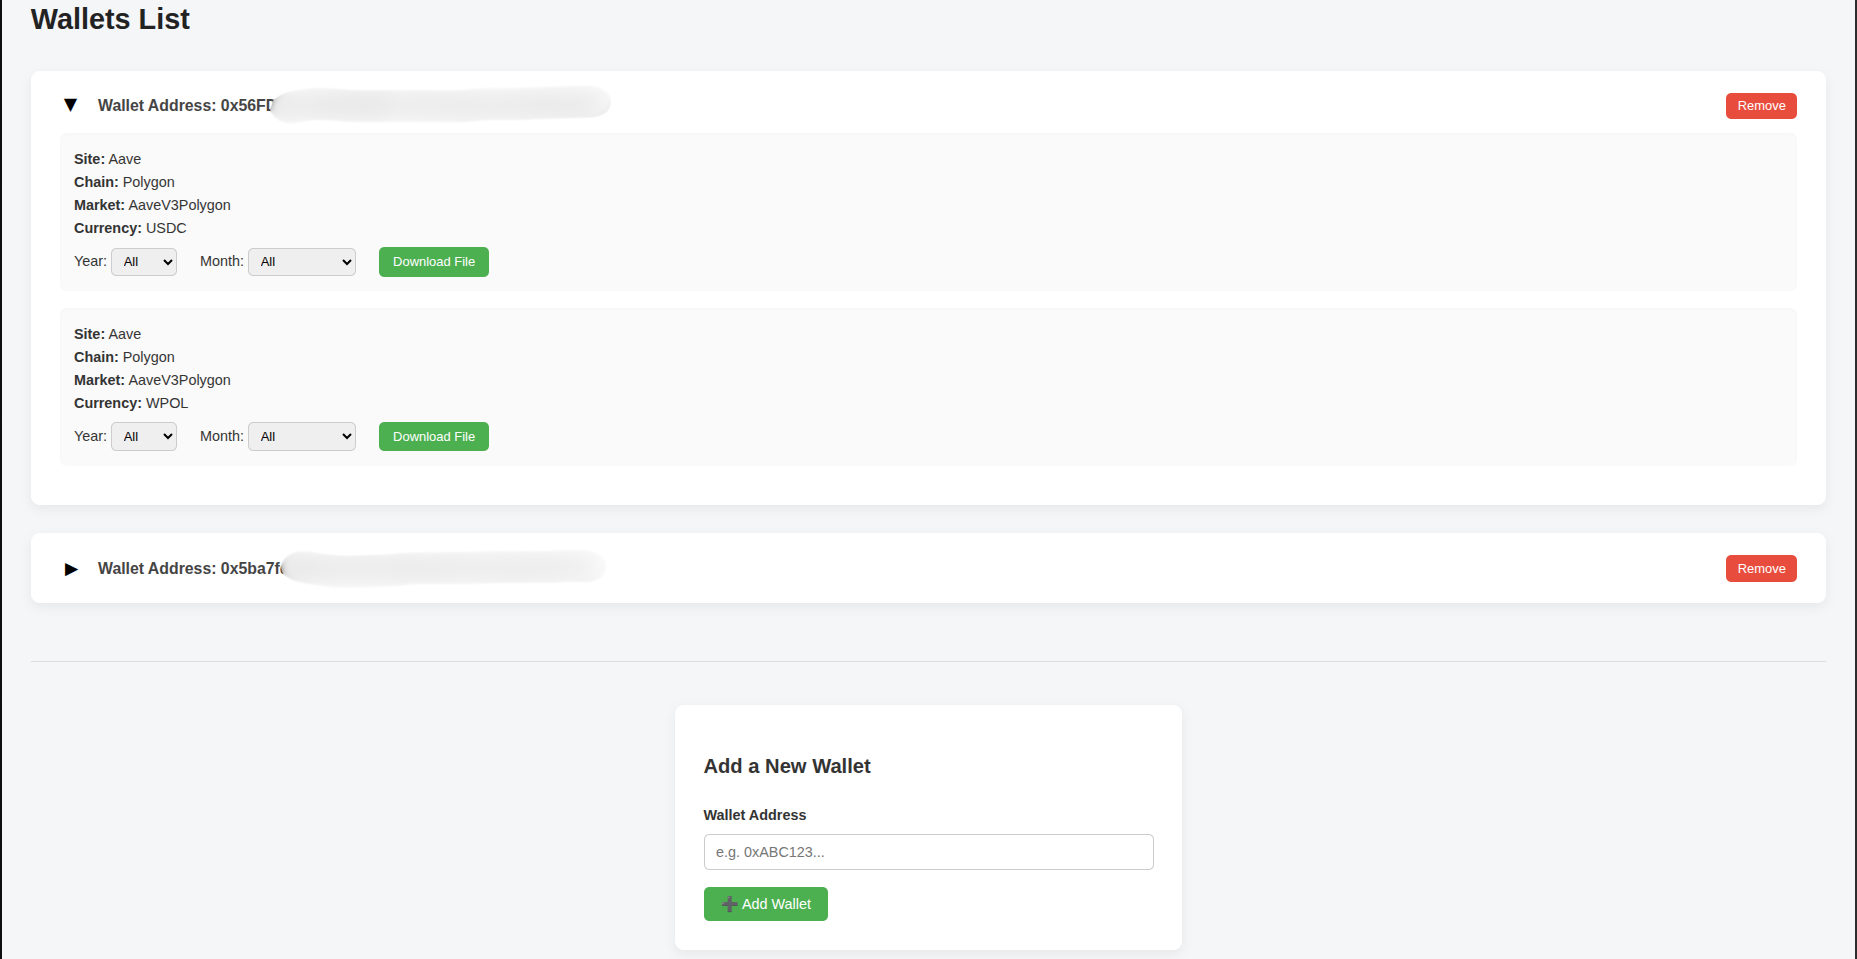
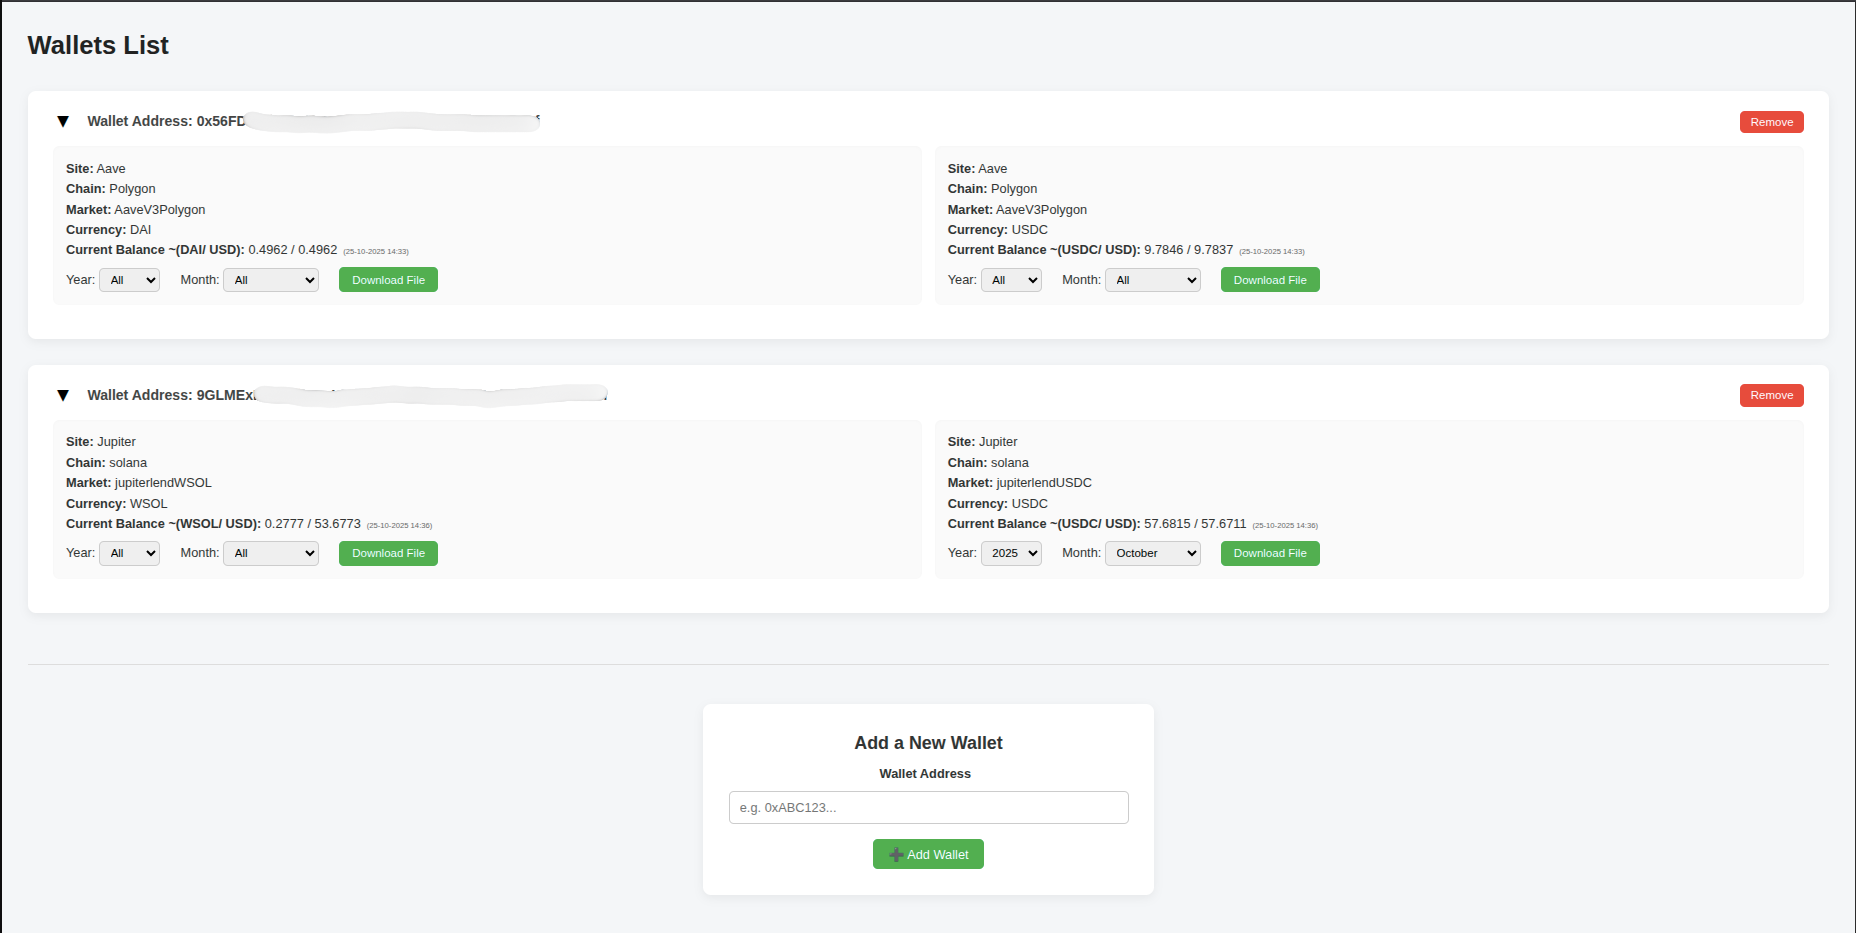
Update readme & clean rpc class

diff --git a/src/frameworks/clients/rpc/solana/solana-rpc.ts b/src/frameworks/clients/rpc/solana/solana-rpc.ts
@@ -74,8 +74,7 @@ export class SolanaRpc extends Connection {
     return result;
   }
 
-  public parseRpcTransaction(
-    // to utils
+  private parseRpcTransaction(
     tx: ParsedTransactionWithMeta,
     underlyingAsset: string, // usdc, sol
     metadata: {
@@ -144,9 +143,6 @@ export class SolanaRpc extends Connection {
           if (info.mint === underlyingAsset) {
             // value as string
             result.value = info.tokenAmount.uiAmountString;
-
-            // calculate USD value if price known
-
             const amountNum = BigNumber(info.tokenAmount.uiAmountString);
             result.usdValue = amountNum
               .multipliedBy(BigNumber(metadata.tokenPriceUsd))

diff --git a/README.md b/README.md
@@ -1,6 +1,8 @@
 ## Description
 
-Profit Tracker is a project to track your wallet on Aave. It will track your supplied positions. A cron job runs everyday to save your current balance. Based on this it can generate a file with your daily profits.
+Profit Tracker is a tool created to help you monitor and analyze your DeFi lending positions. It currently supports tracking supplied positions on both [**Aave**](https://aave.com/) and [**Jupiter Lend**](https://jupiter.exchange/lend).
+
+A daily cron job captures your wallet balance and transactions, allowing you to generate a detailed history of your **daily profits**.
 
 ## Built With
 
@@ -8,12 +10,11 @@ Profit Tracker is a project to track your wallet on Aave. It will track your sup
 - [NestJS](https://nestjs.com/) – Progressive Node.js framework for building scalable server-side applications
 - [Docker](https://www.docker.com/) – Containerization platform to build, ship, and run apps
 - [MongoDB](https://www.mongodb.com/) – NoSQL database for modern, scalable applications
-- [Aave SDK](https://docs.aave.com/) – SDK for interacting with the Aave protocol, enabling DeFi lending and borrowing functionalities
 
 ## Requirements
 
-- docker
-- docker compose v2
+- [Docker](https://www.docker.com/)
+- [Docker Compose v2](https://docs.docker.com/compose/)
 
 ## Environment Variables
 
@@ -26,7 +27,6 @@ SOLANA-RPC-URL-WITH-OR-WITHOUT-KEY=https://mainnet.helius-rpc.com/?api-key={api-
 or
 SOLANA-RPC-URL-WITH-OR-WITHOUT-KEY=https://api.mainnet-beta.solana.com
 ```
-
 
 Make sure to adjust the SolanaRpc class to the rpc endpoint rate limits.
 
